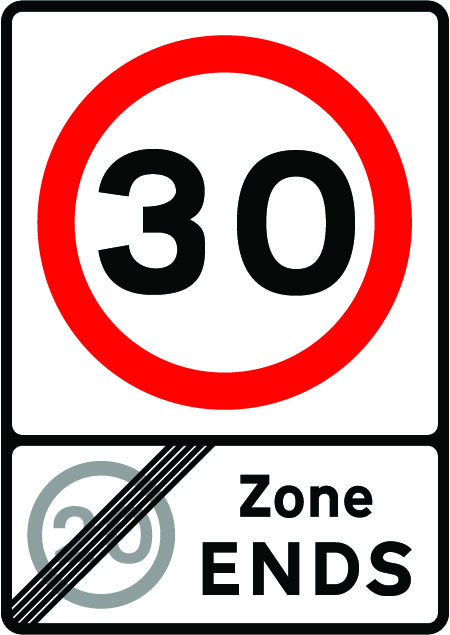
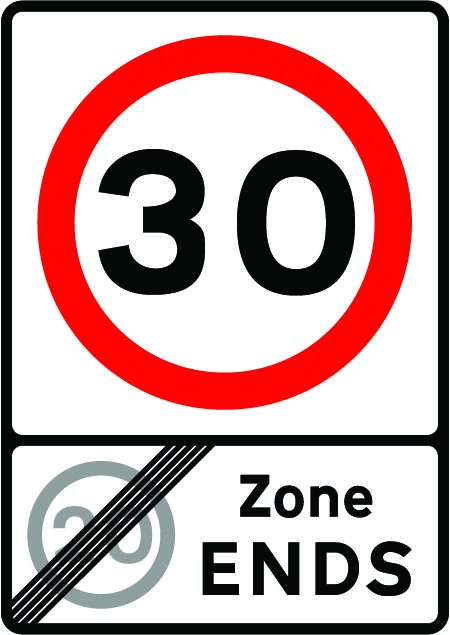
Fix zone-30-entry mislabel, add 6 missing road-sign catalogue entries (#86)
* Fix zone-30-entry mislabel, add 6 missing road-sign catalogue entries

The zone-30-entry id and asset (674.jpg) both depict a 20 mph zone
entry sign, not 30. Renamed to zone-20-entry and reworded the meaning
text to match, updating every reference (roadSigns.ts, signImages.ts,
the SVG fallback case in roadsigns.tsx).

Added 6 catalogue entries confirmed by opening the actual image assets
and comparing against the reference images used in the question bank:
- vehicle-height-limit (tests as "High vehicles" in AB2306)
- right-lane-closed (AB2420)
- junction-number (AB2422)
- leave-motorway-next-exit (AB2426)
- urban-clearway (AB2670)
- zone-20-end (AB2299, previously untested/unmapped)

relatedRuleNumber is only set where a Highway Code rule was confirmed
(240 for urban clearway, 257 for the lane-closure matrix signal, 113
for the two zone signs, matching the existing speed-sign convention).
It's omitted for vehicle-height-limit, junction-number and
leave-motorway-next-exit rather than guessed.

Claude-Session: https://claude.ai/code/session_01C8x8eJZrfF1NrHVanTGmxb

* Re-encode 675.jpg from CMYK to RGB baseline JPEG

Metro's asset pipeline (via the image-size package) can't read
dimensions from CMYK JPEGs, which broke the Vercel web build:
"Invalid JPG, no size found". The file was a 2008 Adobe Photoshop CS
export saved in CMYK/Adobe-transform-2 (YCCK); converted to standard
RGB baseline JFIF, same 450x635 dimensions, visually unchanged (roundel
[…]

Changed region(s): [[0.1556, 0.3291, 0.1867, 0.3591]]

diff --git a/packages/content/src/roadSigns.ts b/packages/content/src/roadSigns.ts
@@ -768,6 +768,19 @@ export const roadSigns: RoadSign[] = [
     relatedRuleNumber: 160,
   },
   {
+    id: 'vehicle-height-limit',
+    name: 'No vehicles over height shown',
+    category: SignCategory.Regulatory,
+    shape: 'circle',
+    borderColor: RED,
+    fillColor: WHITE,
+    textColor: BLACK,
+    displayText: '4.4m',
+    meaning: 'This sign applies to high vehicles. It shows the maximum vehicle height permitted on the road ahead, usually because of a low bridge or other overhead obstruction. High vehicles — lorries, buses, coaches, and high-sided vans — over the height shown must not proceed.',
+    whatToDo: 'Know the height of your vehicle. If you are driving a high vehicle at or above the height shown, turn off before this point and find an alternative route. Do not assume your satnav has accounted for the restriction.',
+    commonMistake: 'Confusing this with a width or weight restriction. The triangular markers above and below the dimension are the giveaway that this sign is specifically for high vehicles.',
+  },
+  {
     id: 'no-cycling',
     name: 'No cycling',
     category: SignCategory.Regulatory,
@@ -1224,18 +1237,46 @@ export const roadSigns: RoadSign[] = [
     relatedRuleNumber: 113,
   },
   {
-    id: 'zone-30-entry',
-    name: '20/30 mph zone — entry',
+    id: 'zone-20-entry',
+    name: '20 mph zone — entry',
     category: SignCategory.Information,
     shape: 'rectangle',
     borderColor: RED,
     fillColor: WHITE,
     textColor: RED,
     displayText: 'ZONE',
-    meaning: 'You are entering a speed restricted zone covering multiple roads. The posted speed limit applies to all roads within the zone.',
-    whatToDo: 'Reduce speed to the stated limit immediately on entering the zone. The zone limit applies throughout, not just on the roads with repeater signs.',
+    meaning: 'You are entering a 20 mph zone covering multiple roads, often used in residential areas, near schools, or where traffic-calming measures apply. The 20 mph limit applies to all roads within the zone.',
+    whatToDo: 'Reduce speed to 20 mph immediately on entering the zone. The zone limit applies throughout, not just on the roads with repeater signs.',
     commonMistake: 'Assuming the limit only applies on the main road. Zone limits apply to all roads within the zone unless another limit is posted.',
     relatedRuleNumber: 113,
+  },
+  {
+    id: 'zone-20-end',
+    name: 'End of 20 mph zone',
+    category: SignCategory.Information,
+    shape: 'rectangle',
+    borderColor: RED,
+    fillColor: WHITE,
+    textColor: RED,
+    displayText: 'ZONE ENDS',
+    meaning: 'You are leaving the 20 mph zone. The 20 mph restriction ends here and a 30 mph limit (or another posted limit) now applies.',
+    whatToDo: 'Check all around for hazards before increasing your speed. Do not accelerate immediately — confirm what limit now applies rather than assuming it is safe to speed up.',
+    commonMistake: 'Accelerating straight to 30 mph without checking for the pedestrians, cyclists, and parked cars that are common in the residential streets these zones cover.',
+    relatedRuleNumber: 113,
+  },
+  {
+    id: 'urban-clearway',
+    name: 'Urban clearway — no stopping during times shown',
+    category: SignCategory.Information,
+    shape: 'rectangle',
+    borderColor: BLACK,
+    fillColor: AMBER,
+    textColor: BLACK,
+    displayText: 'CLEARWAY',
+    meaning: 'This sign means no parking on the days and times shown. You are on an urban clearway where stopping or parking is banned during the hours displayed on the sign, to keep traffic flowing at busy times.',
+    whatToDo: 'Do not stop or park during the times shown, even briefly, except to set down or pick up passengers. Times vary by location, so always check the sign.',
+    commonMistake: 'Assuming the restriction applies all day. Urban clearways typically only restrict stopping during specific peak hours — but during those hours the restriction is absolute.',
+    relatedRuleNumber: 240,
   },
   {
     id: 'red-route',
@@ -1293,6 +1334,19 @@ export const roadSigns: RoadSign[] = [
     whatToDo: 'Follow blue motorway signs for your destination. Get into the correct lane well before the junction to avoid last-minute lane changes.',
     commonMistake: 'Switching lanes at the last moment after missing the advance direction sign. Plan lane changes early.',
     relatedRuleNumber: 259,
+  },
+  {
+    id: 'junction-number',
+    name: 'Number of the next junction',
+    category: SignCategory.Direction,
+    shape: 'rectangle',
+    borderColor: BLUE,
+    fillColor: BLUE,
+    textColor: WHITE,
+    displayText: '25',
+    meaning: 'A number shown in a black box on a motorway direction sign identifies the next junction. It lets you match the sign to your route plan and to the countdown markers as you approach.',
+    whatToDo: 'Use the junction number to confirm you are approaching the right exit before you commit to a lane. Plan ahead using a map or satnav so you recognise the number when it appears.',
+    commonMistake: 'Relying on the destination name alone and missing the junction number, which is the most reliable way to confirm you have the right exit when several places are signed together.',
   },
   {
     id: 'park-and-ride',
@@ -1389,6 +1443,33 @@ export const roadSigns: RoadSign[] = [
     whatToDo: 'Enter the slip road. Reduce your speed on the slip road (not the motorway). Be aware that your speed perception may be distorted after motorway driving.',
     commonMistake: 'Braking on the motorway at the 100-yard marker. Brake on the slip road, not the motorway, to avoid rear-end collisions.',
     relatedRuleNumber: 273,
+  },
+  {
+    id: 'right-lane-closed',
+    name: 'Right-hand lane closed ahead',
+    category: SignCategory.Information,
+    shape: 'rectangle',
+    borderColor: BLACK,
+    fillColor: BLACK,
+    textColor: AMBER,
+    displayText: '↓|',
+    meaning: 'An overhead matrix signal showing an arrow bending left tells you the right-hand lane is closed ahead, usually because of roadworks or an incident. The remaining lanes stay open.',
+    whatToDo: 'Change lanes as directed in good time. Merging in turn is sensible when traffic is already slow, but at higher speeds move into the appropriate lane early rather than leaving it late.',
+    commonMistake: 'Leaving the lane change until the last moment. At motorway speeds, sudden lane changes near a closure are a common cause of collisions.',
+    relatedRuleNumber: 257,
+  },
+  {
+    id: 'leave-motorway-next-exit',
+    name: 'Leave the motorway at the next exit',
+    category: SignCategory.Information,
+    shape: 'rectangle',
+    borderColor: BLACK,
+    fillColor: BLACK,
+    textColor: AMBER,
+    displayText: '↙',
+    meaning: 'An overhead matrix signal showing a bent arrow pointing down and to the left tells you the motorway is closed ahead and you must leave at the next exit.',
+    whatToDo: 'Pull into the left-hand lane as soon as it is safe to do so. Do not wait until the last moment — the lane may be busy and you will need other drivers to make room for you.',
+    commonMistake: 'Delaying the move to the left lane, assuming there will be time later. At motorway speeds the exit arrives faster than expected.',
   },
 
   // ── ROAD WORKS SIGNS ──────────────────────────────────────────────────────

diff --git a/apps/mobile/src/signImages.ts b/apps/mobile/src/signImages.ts
@@ -80,7 +80,8 @@ const SIGN_IMAGES: Record<string, any> = {
   'speed-60':             require('../assets/signs/speed-limit-signs-jpg/670V60.jpg'),
   'national-speed-limit': require('../assets/signs/speed-limit-signs-jpg/671.jpg'),
   'end-speed-restriction':require('../assets/signs/speed-limit-signs-jpg/672.jpg'),
-  'zone-30-entry':        require('../assets/signs/speed-limit-signs-jpg/674.jpg'),
+  'zone-20-entry':        require('../assets/signs/speed-limit-signs-jpg/674.jpg'),
+  'zone-20-end':          require('../assets/signs/speed-limit-signs-jpg/675.jpg'),
 
   // ── Regulatory / prohibition signs ───────────────────────────────────────
   'stop-sign':            require('../assets/signs/regulatory-signs-jpg/601.1.jpg'),
@@ -97,6 +98,7 @@ const SIGN_IMAGES: Record<string, any> = {
   'no-vehicles':          require('../assets/signs/regulatory-signs-jpg/617.jpg'),
   'no-cycling':           require('../assets/signs/bus-and-cycle-signs-jpg/951.jpg'),
   'no-motor-vehicles':    require('../assets/signs/regulatory-signs-jpg/619.jpg'),
+  'vehicle-height-limit': require('../assets/signs/low-bridge-signs-jpg/629.2A.jpg'),
   'no-overtaking':        require('../assets/signs/regulatory-signs-jpg/632.jpg'),
   'min-speed-30':         require('../assets/signs/regulatory-signs-jpg/651.jpg'),
   'give-priority-oncoming':require('../assets/signs/regulatory-signs-jpg/615.jpg'),
@@ -127,6 +129,9 @@ const SIGN_IMAGES: Record<string, any> = {
   'countdown-300':        require('../assets/signs/motorway-signs-jpg/823.jpg'),
   'countdown-200':        require('../assets/signs/motorway-signs-jpg/824.jpg'),
   'countdown-100':        require('../assets/signs/motorway-signs-jpg/825.jpg'),
+  'junction-number':      require('../assets/signs/motorway-signs-jpg/2906.jpg'),
+  'right-lane-closed':    require('../assets/signs/motorway-signs-jpg/6008.jpg'),
+  'leave-motorway-next-exit': require('../assets/signs/motorway-signs-jpg/6003.jpg'),
 
   // ── Direction / tourist signs ─────────────────────────────────────────────
   'primary-route-direction': require('../assets/signs/direction-and-tourist-signs-jpg/2025.jpg'),
@@ -139,6 +144,7 @@ const SIGN_IMAGES: Record<string, any> = {
   'red-route':            require('../assets/signs/on-street-parking-jpg/CW701.jpg'),
   'end-restricted-parking':require('../assets/signs/on-street-parking-jpg/664.jpg'),
   'park-verge-footway':   require('../assets/signs/on-street-parking-jpg/668.jpg'),
+  'urban-clearway':       require('../assets/signs/on-street-parking-jpg/646.jpg'),
 
   // ── Road works signs ─────────────────────────────────────────────────────
   'road-works-ahead':       require('../assets/signs/road-works-and-temporary-jpg/7001.jpg'),

diff --git a/apps/mobile/app/(tabs)/roadsigns.tsx b/apps/mobile/app/(tabs)/roadsigns.tsx
@@ -794,13 +794,13 @@ function RectSignSymbol({ id }: { id: string }) {
           <Rect x="72" y="12" width="12" height="12" fill={BK} rx="2" />
         </G>
       );
-    case 'zone-30-entry':
+    case 'zone-20-entry':
       return (
         <G>
           <SvgText x="65" y="32" fontSize="14" fontWeight="bold" fill={RD} textAnchor="middle" letterSpacing="1">
             ZONE
           </SvgText>
-          <SvgText x="65" y="62" fontSize="30" fontWeight="bold" fill={RD} textAnchor="middle">30</SvgText>
+          <SvgText x="65" y="62" fontSize="30" fontWeight="bold" fill={RD} textAnchor="middle">20</SvgText>
         </G>
       );
     case 'red-route':
